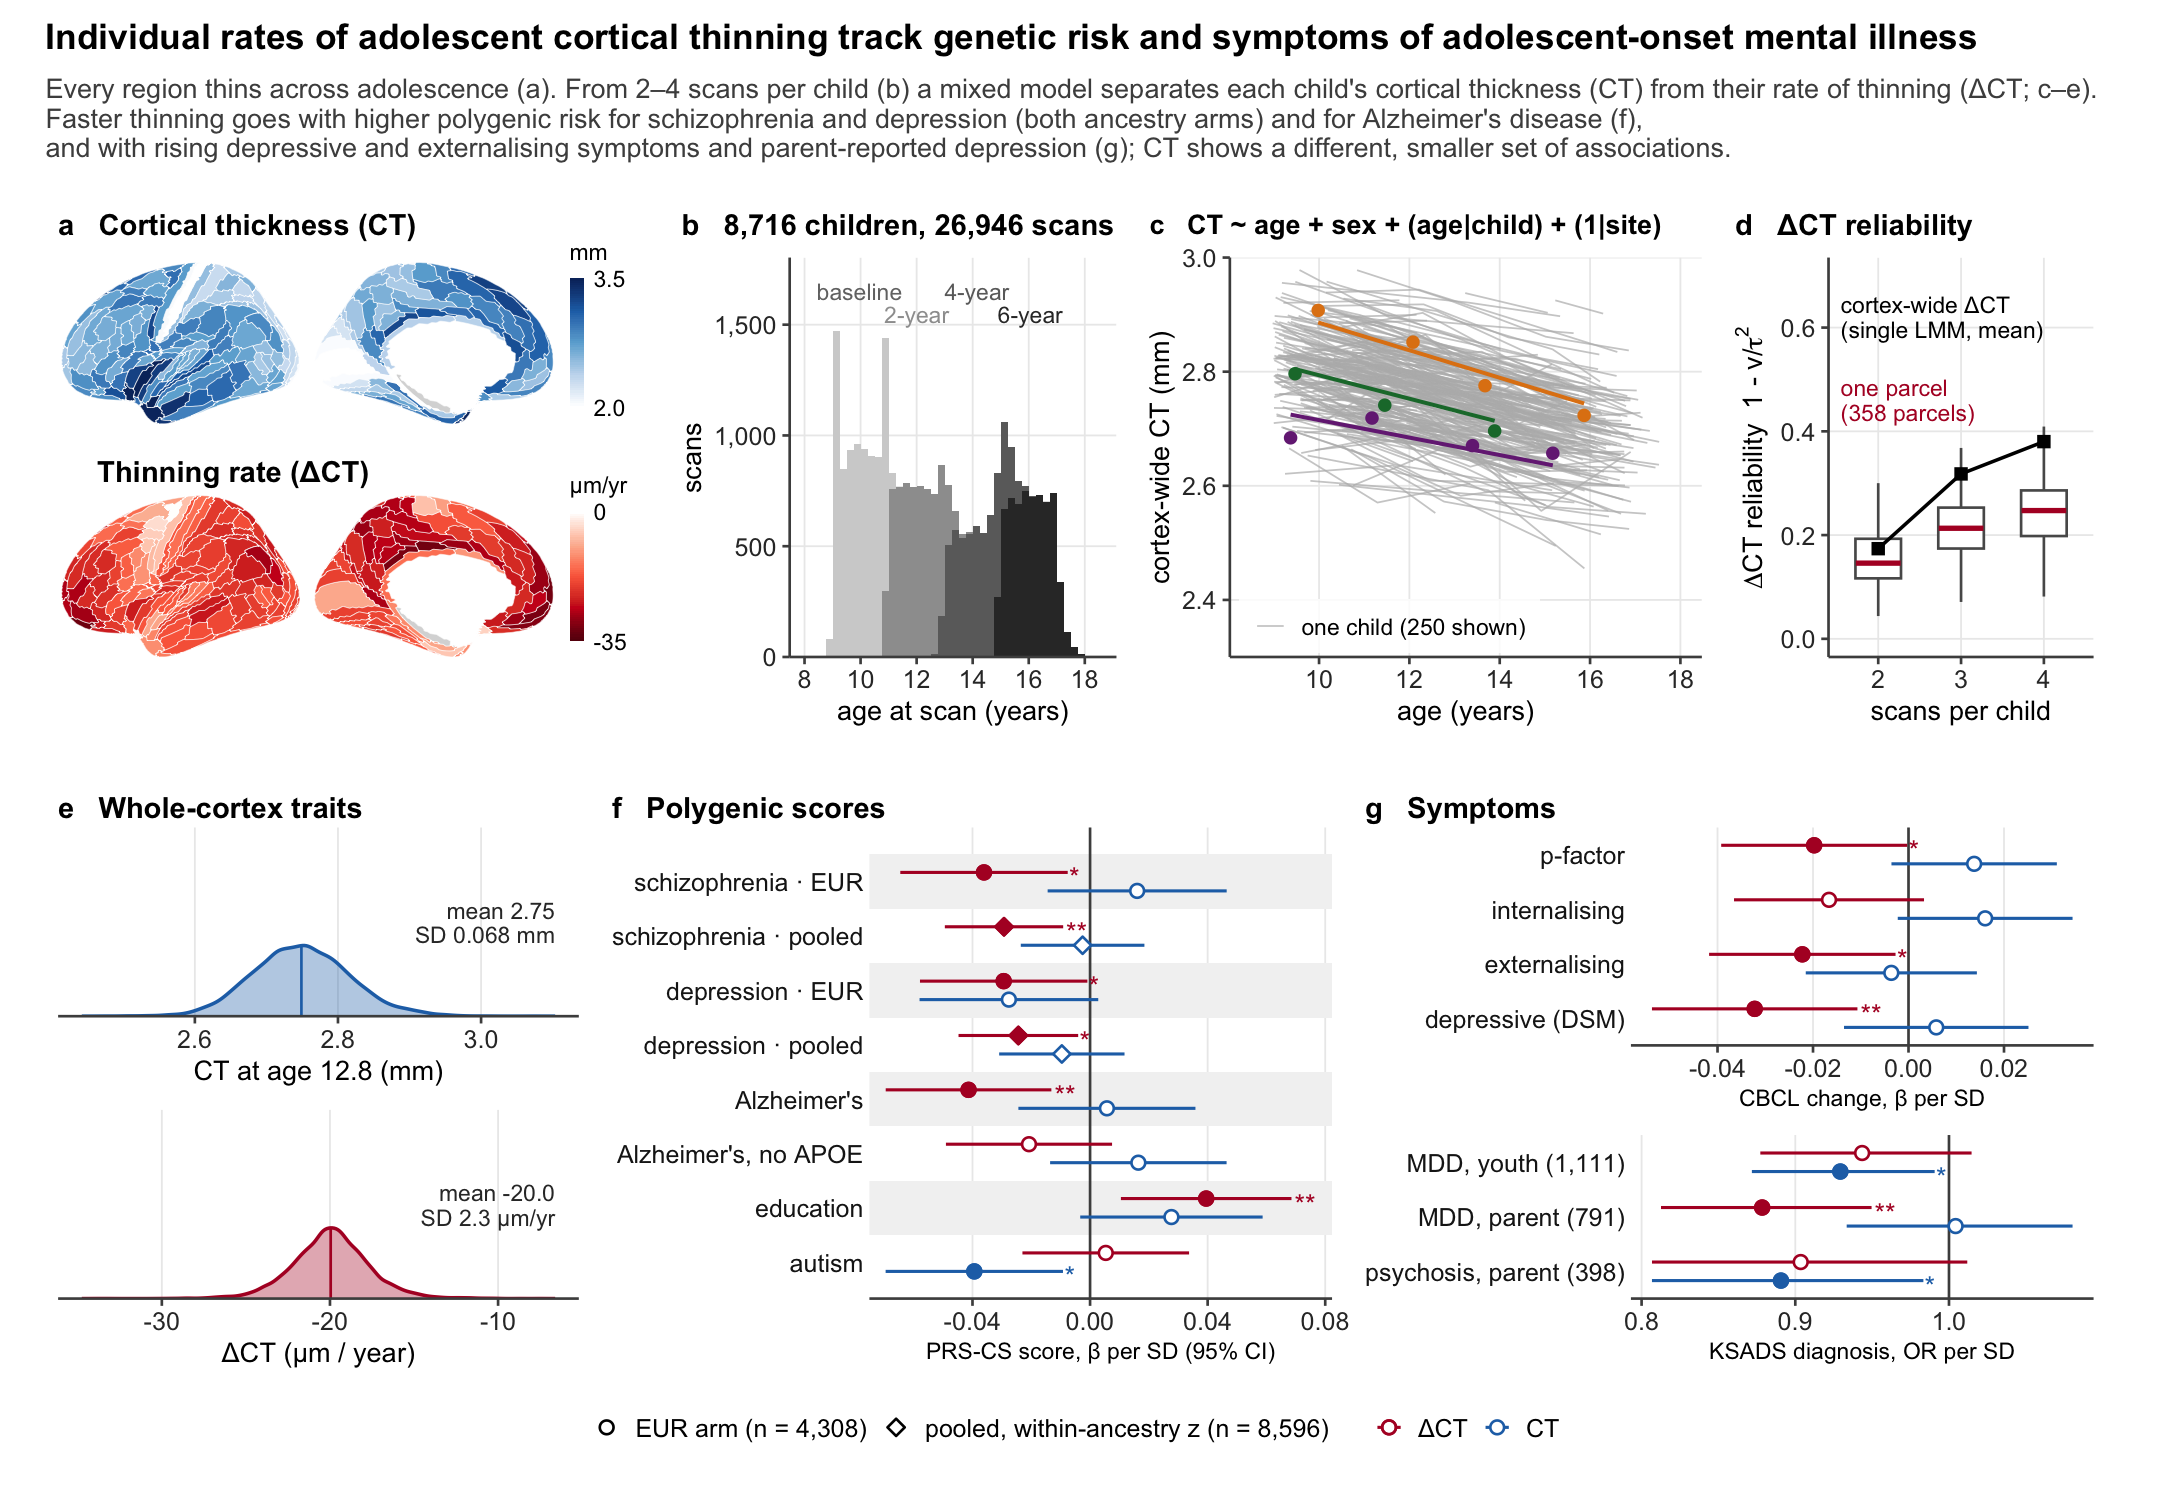
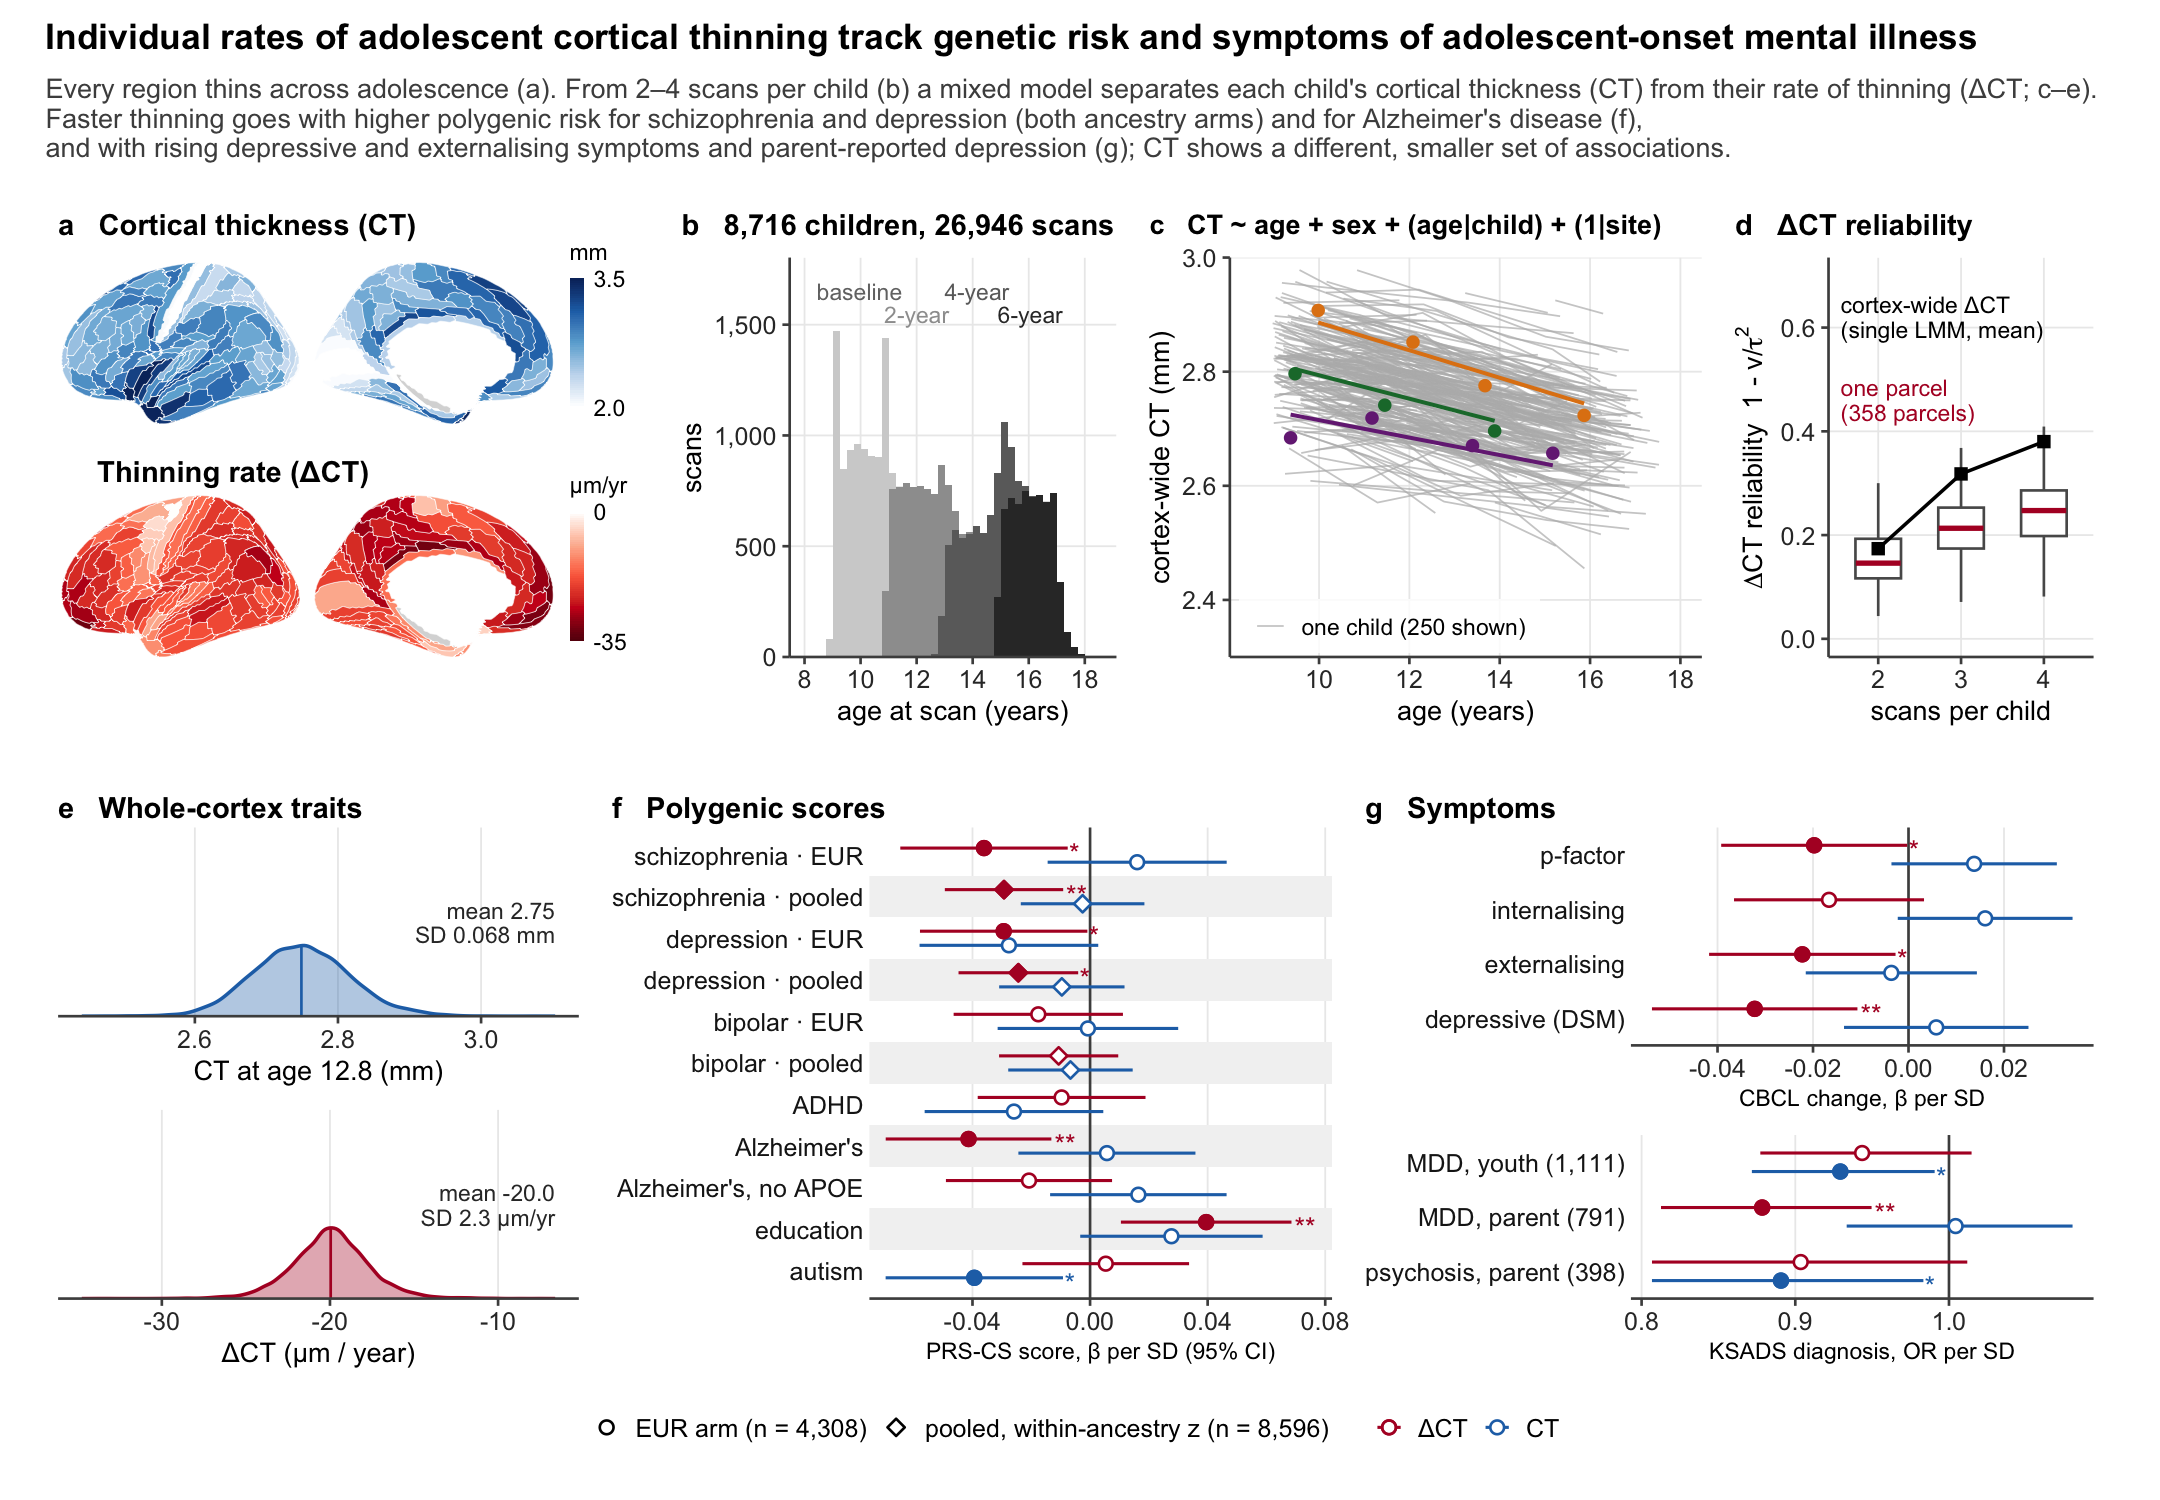
fig1 f: bipolar (EUR, pooled) and ADHD rows from step 15 (8c9df80); caption states they are null for ΔCT
PRS-CS, HCP single LMM, ΔCT: BIP EUR -0.018 (p .23), BIP pooled -0.011 (p .30),
ADHD -0.010 (p .51); CT all n.s.  fig1_prep_prs.py re-run: identical to the
cluster-built hcp70_prs_key_arms.tsv (88 rows).  Intelligence (INT) is in the
step-15 tables but not requested for Figure 1.

Changed region(s): [[0.2792, 0.552, 0.6204, 0.8587]]

diff --git a/docs/figures/fig1_caption.md b/docs/figures/fig1_caption.md
@@ -6,7 +6,7 @@ CT and ΔCT are the intercept and slope of one linear mixed model per region (a)
 - **c** Per-scan cortical mean thickness against age for 250 random children (grey) and three highlighted children (points, colour): a child with thick cortex and fast thinning, one with thin cortex and slow thinning (four scans each) and a near-average child (three scans). Each coloured line is that child's fitted trajectory from the mixed model in the title, fixed effects plus the child's random intercept and slope (site effect omitted), so its height at 12.8 years is the child's CT and its slope is their ΔCT. Lines are shrunk toward the population trajectory, most for children with fewer or closely spaced scans.
 - **d** ΔCT reliability 1 − v/τ², where v is a child's conditional (posterior) variance of the slope random effect and τ² the between-child slope variance: boxes, per-parcel LMMs (358 parcels; each value the mean over children; medians 0.15 / 0.21 / 0.25 for 2 / 3 / 4 scans); squares, the single LMM on the cortical mean (mean over children 0.17 / 0.32 / 0.38).
 - **e** Distributions of whole-cortex CT and ΔCT across the 8,716 children (single LMM on the per-scan cortical mean; CT at the sample-mean scan age, 12.8 years). Per-child estimates are shrunk toward the mean (ΔCT SD 2.3 µm/yr against a model between-child SD of 4.2 µm/yr); every child's estimated ΔCT is negative, and CT and ΔCT are nearly independent across children (r = 0.10).
-- **f** PRS-CS polygenic score association with ΔCT (red) and CT (blue) on each row; β per SD of score with 95% CI; filled = p < 0.05. Schizophrenia (2025 GWAS): ΔCT p = 0.01 EUR / 0.004 pooled, CT p = 0.30 / 0.81. C+T and SBayesRC give the same ΔCT pattern (SI). * p < 0.05, ** p < 0.01, *** p < 0.001 (uncorrected).
+- **f** PRS-CS polygenic score association with ΔCT (red) and CT (blue) on each row; β per SD of score with 95% CI; filled = p < 0.05. Schizophrenia (2025 GWAS): ΔCT p = 0.01 EUR / 0.004 pooled, CT p = 0.30 / 0.81. Bipolar (2024; EUR and multi-ancestry arms) and ADHD (2023; EUR) are null for ΔCT (p = 0.23, 0.30, 0.51). C+T and SBayesRC give the same ΔCT pattern (SI); bipolar EUR reaches significance under C+T only. * p < 0.05, ** p < 0.01, *** p < 0.001 (uncorrected).
 - **g** Symptoms against the same single-LMM phenotypes (ΔCT red, CT blue; each fitted alone; filled = p < 0.05; * p < 0.05, ** p < 0.01, *** p < 0.001). CBCL (parent report, log1p raw scale sums): symptoms at ages ~15–17 (mean of the available waves 5–7) adjusted for the same score at baseline (ANCOVA; not a difference score and not a per-child symptom slope), y_late ~ phenotype + y_baseline + age_late + sex + site, β in SD of y_late. KSADS: diagnosis (present or past) at any administered session from baseline to year 6, i.e. lifetime and including baseline cases, logistic with age at the last CBCL, odds ratio per SD. Both phenotypes are signed as in e–f (ΔCT negative = faster thinning), so β < 0 or OR < 1 means more symptoms with faster thinning or with thinner cortex. Estimates are unchanged when both phenotypes enter one model (CT–ΔCT r = 0.06). Family-clustered SEs; n = 8,189 (CBCL change) and 8,716 (KSADS). Faster thinning goes with rising depressive (p = 0.003), externalising (p = 0.03) and general (p-factor, p = 0.05) symptoms and parent-reported MDD (OR 0.88, p = 0.001); thinner cortex (CT) goes with youth-reported MDD (OR 0.93, p = 0.02) and parent-reported psychosis spectrum (OR 0.89, p = 0.02). Exploratory, uncorrected.
 
 Methods
